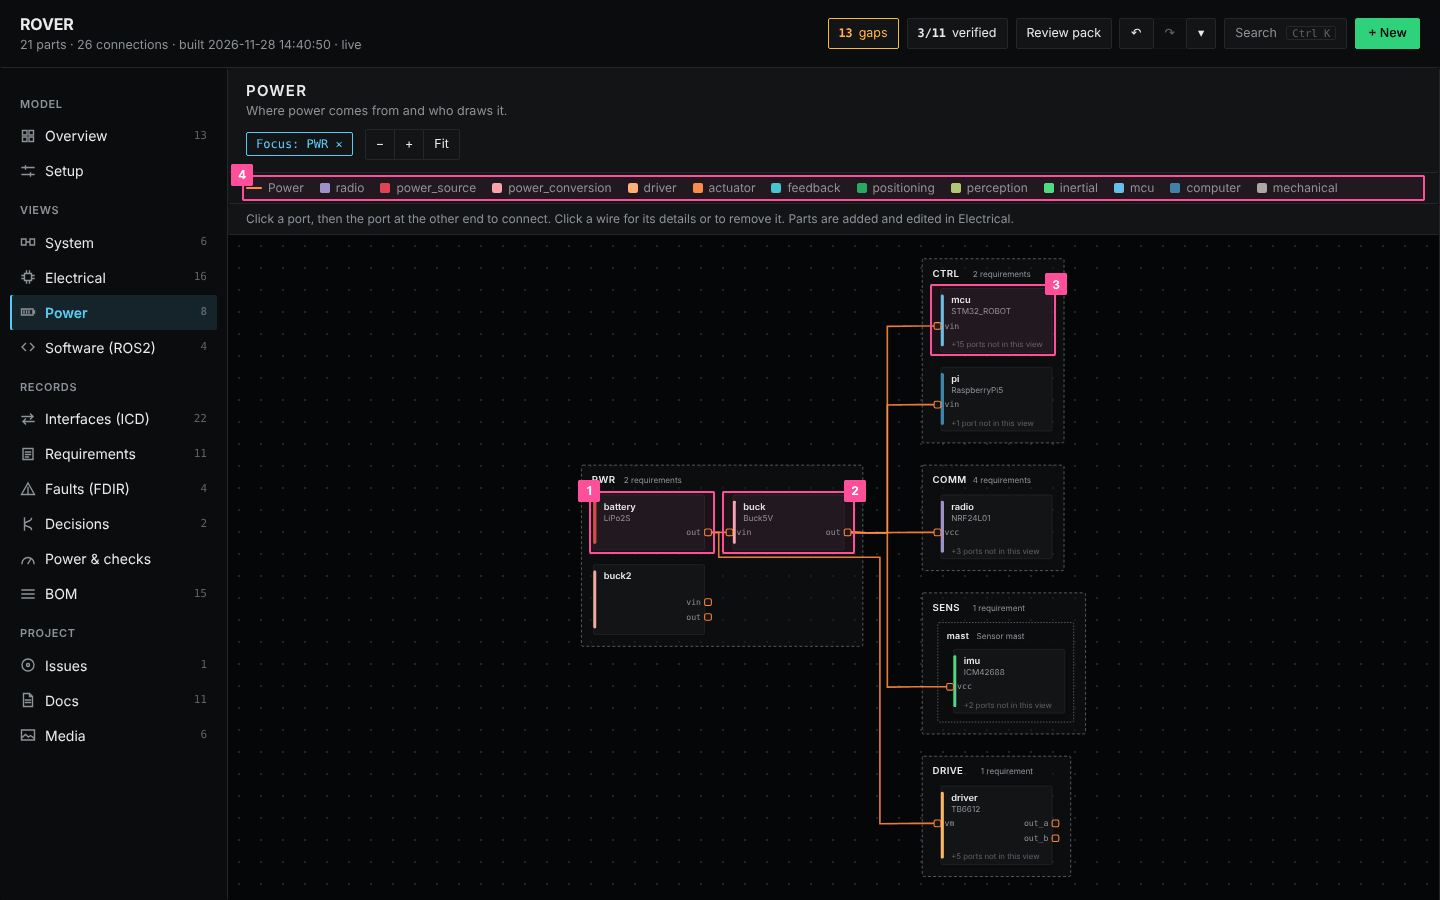
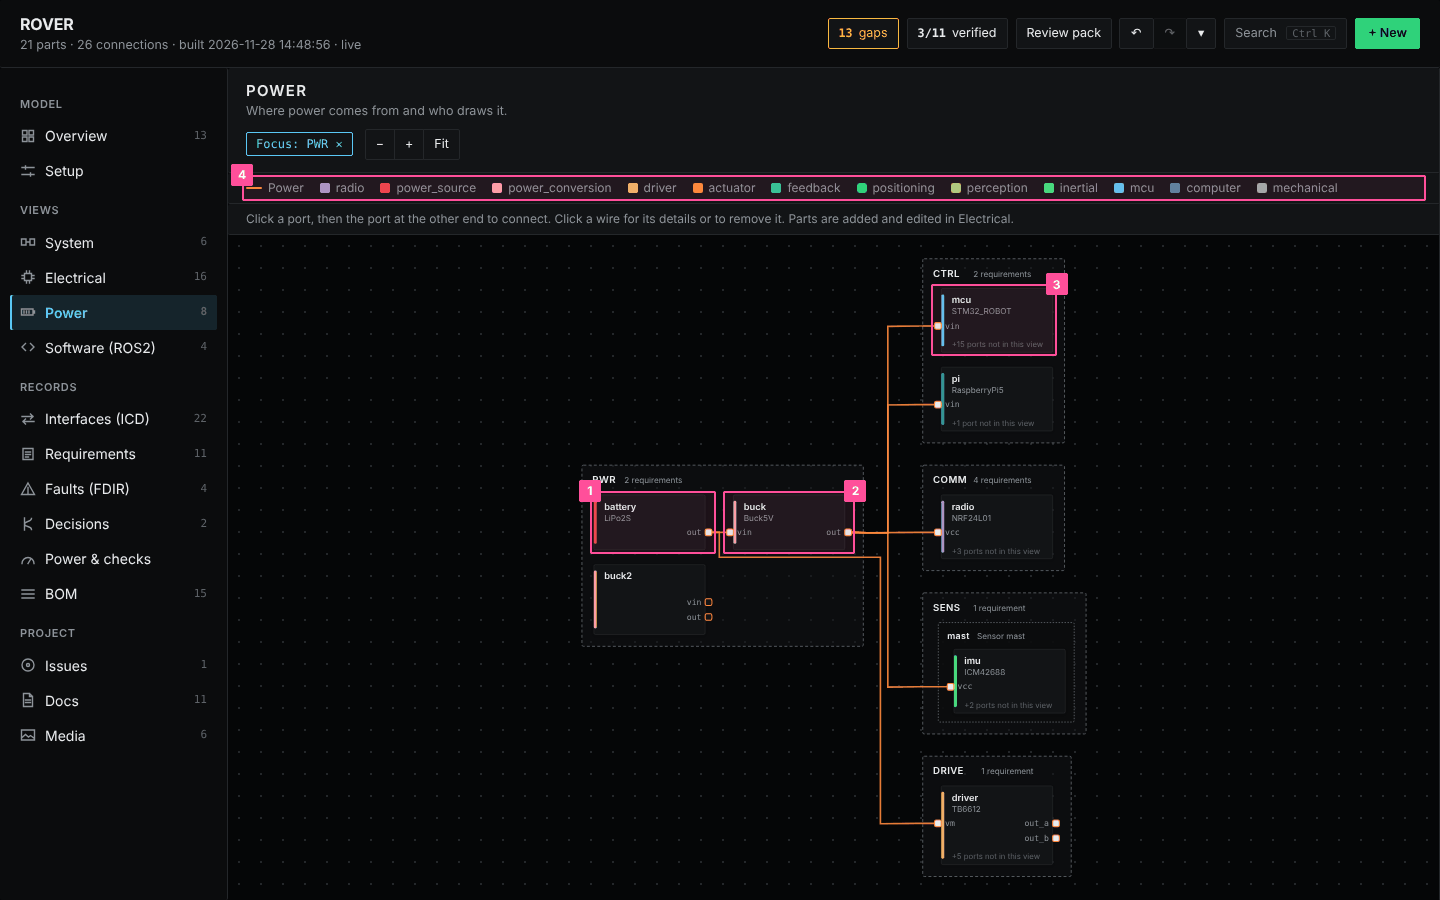
Diagram views: side panel floats over the canvas (no resize in any browser); wired pins filled; verification method next to the status

diff --git a/docmodel_page.html b/docmodel_page.html
@@ -40,7 +40,7 @@ header h1{font-size:16px;margin:0;font-weight:650;letter-spacing:-.01em}header .
 .counters{margin-left:auto;display:flex;gap:8px}
 .counter{display:inline-flex;align-items:center;gap:6px;padding:4px 10px;border-radius:999px;border:1px solid var(--hair);font-size:12.5px;cursor:pointer;background:var(--surface);color:var(--ink)}
 .counter b{font-variant-numeric:tabular-nums}.counter.bad{border-color:var(--crit);color:var(--crit-ink)}.counter.gap{border-color:var(--warn);color:var(--warn-ink)}
-.shell{flex:1;display:grid;grid-template-columns:228px 1fr auto;min-height:0}
+.shell{flex:1;display:grid;grid-template-columns:228px 1fr auto;min-height:0;position:relative}body[data-diagram="1"] aside{position:absolute;top:0;right:0;bottom:0;z-index:20;box-shadow:-12px 0 24px rgba(0,0,0,.35)}
 nav{border-right:1px solid var(--hair);padding:14px 10px;overflow:auto;background:var(--surface)}
 nav .grp{font-size:11px;text-transform:uppercase;letter-spacing:.06em;color:var(--faint);margin:14px 10px 6px}
 nav button{display:flex;width:100%;align-items:center;gap:9px;padding:7px 10px;border:0;background:none;color:var(--ink);font:inherit;border-radius:7px;cursor:pointer;text-align:left}
@@ -65,7 +65,7 @@ svg text{fill:var(--ink);font-family:-apple-system,BlinkMacSystemFont,"Segoe UI"
 .leaf>rect.band{rx:2}.leaf.facts>rect.band{fill:var(--facts)}.leaf.arch>rect.band{fill:var(--arch)}
 .leaf text.t{font-size:12.5px;font-weight:650}.leaf text.ty{font-size:11px;fill:var(--muted)}.leaf text.more{font-size:10.5px;fill:var(--faint)}
 .leaf:hover>rect.b{stroke:var(--faint)}.sel>rect.b{stroke:var(--accent)!important;stroke-width:2.2!important}
-.port{fill:var(--surface);stroke-width:1.4}.plab{font-size:11px;fill:var(--muted)}
+.port{fill:var(--surface);stroke-width:1.4}.port.wired{fill:var(--ink)}.plab{font-size:11px;fill:var(--muted)}
 .edge{fill:none;stroke-width:1.6;opacity:.9}.edge.Signal{stroke:var(--sig)}.edge.Power{stroke:var(--pwr);stroke-width:2.2}.edge.Mechanical{stroke:var(--mech);stroke-dasharray:6 3}
 .edge.bad{stroke:var(--crit)!important;stroke-dasharray:5 4}.edge.dim{opacity:.12}.edge.hot{stroke-width:3.2;opacity:1}
 .elab rect{fill:var(--surface);stroke:var(--hair)}.elab text{font-size:10.5px;fill:var(--muted)}
@@ -109,7 +109,7 @@ aside h4{font-size:11.5px;text-transform:uppercase;letter-spacing:.06em;color:va
 .rgrid{display:grid;grid-template-columns:1fr;gap:12px}
 .rcard{background:var(--surface);border:1px solid var(--ring);border-radius:12px;padding:14px 16px;box-shadow:var(--shadow);display:flex;flex-direction:column;gap:8px}
 .rcard .top{display:flex;align-items:center;gap:10px}.rcard .id{font-family:ui-monospace,Menlo,monospace;font-size:12.5px;font-weight:600}
-.rcard .meth{margin-left:auto;font-size:11.5px;color:var(--muted);border:1px solid var(--hair);border-radius:6px;padding:1px 7px}
+.rcard .meth{font-size:11.5px;color:var(--muted);border:1px solid var(--hair);border-radius:6px;padding:1px 7px}
 .rcard .txt{font-size:14px;line-height:1.45}.rcard .why{color:var(--muted);font-size:12.5px}
 .rcard .ev{font-size:12px;color:var(--muted);border-left:2px solid var(--hair);padding-left:8px}
 .links{display:flex;gap:6px;flex-wrap:wrap}.links .chip{font-size:11.5px}
@@ -353,6 +353,7 @@ const VIEWS = [
 ];
 let view = "overview", focus = null, selected = null, editing = SERVED, pend = null;
 function chrome() {
+  document.body.dataset.diagram = ["system", "electrical", "power", "software"].includes(view) ? "1" : "";  // diagram views: the panel floats over the canvas
   $("#title").textContent = M.name;
   $("#subtitle").textContent = `${Object.keys(M.parts).length - 1} parts · ${conns.length} connections · built ${(M.built || "").replace("T", " ")}${SERVED ? " · live" : ""}`;
   const verified = M.requirements.filter(r => r.status === "Verified").length;
@@ -801,6 +802,7 @@ async function drawParts(kinds, title, lead) {
     g.style.cursor = "pointer"; g.addEventListener("click", ev => { if (ev.target.closest(".leaf")) return; showPart(c.id); });
   });
   const missing = new Set(M.connections.filter(c => !c.ok).flatMap(c => [c.a_txt, c.b_txt]));
+  const wired = new Set(M.connections.filter(c => c.ok).flatMap(c => [`${M.top}.${c.a_txt}`, `${M.top}.${c.b_txt}`]));  // connected pins are drawn filled
   Object.values(abs).forEach(({x, y, n}) => { if (!n.children || !n.children.length || !M.parts[n.id] || M.parts[n.id].depth < 2) return;
     const g = el("g", {class: "cont asm", transform: `translate(${x},${y})`}, root); tagMv(g, n.id, abs, false); el("rect", {width: n.width, height: n.height, rx: 10}, g);
     el("text", {x: 12, y: 22, class: "t", style: "font-size:12px"}, g).textContent = M.parts[n.id].name;
@@ -820,7 +822,7 @@ async function drawParts(kinds, title, lead) {
     el("text", {x: 14, y: 35, class: "ty"}, g).textContent = p.type || "";
     const hidden = p.ports.filter(q => !q.missing).length - n.ports.filter(pt => !p.ports.find(x => `${n.id}.${x.name}` === pt.id)?.missing).length; if (hidden > 0) el("text", {x: 14, y: n.height - 7, class: "more"}, g).textContent = `+${hidden} port${hidden > 1 ? "s" : ""} not in this view`;
     n.ports.forEach(pt => { const q = p.ports.find(x => `${n.id}.${x.name}` === pt.id); const east = pt.x > n.width / 2;
-      const pr = el("rect", {class: "port", x: pt.x, y: pt.y, width: pt.width, height: pt.height, rx: 2, stroke: q.missing ? "var(--crit)" : KCOL[q.kind], "stroke-dasharray": q.missing ? "2 2" : ""}, g); pr.dataset.full = `${n.id}.${q.name}`;
+      const pr = el("rect", {class: wired.has(pt.id) ? "port wired" : "port", x: pt.x, y: pt.y, width: pt.width, height: pt.height, rx: 2, stroke: q.missing ? "var(--crit)" : KCOL[q.kind], "stroke-dasharray": q.missing ? "2 2" : ""}, g); pr.dataset.full = `${n.id}.${q.name}`;
       if (pend && pend.full === pr.dataset.full) pr.classList.add("pend");
       const t = el("text", {class: "plab", x: east ? pt.x - 5 : pt.x + pt.width + 5, y: pt.y + 8, "text-anchor": east ? "end" : "start", style: q.missing ? "fill:var(--crit-ink)" : ""}, g); t.textContent = q.missing ? `${q.name} (gone)` : q.name;
       if (editing && !q.missing) { const w = q.name.length * 6.4 + 8; const hit = el("rect", {class: "phit", x: east ? pt.x - w : pt.x, y: pt.y - 4, width: w + pt.width, height: pt.height + 8}, g);

diff --git a/docs/PAGE.md b/docs/PAGE.md
@@ -459,8 +459,9 @@ anywhere else shows it, without the editing buttons. The one shortcut kept:
 **+ Part here** in a subsystem's panel.
 
 **Zoom.** − / + / Fit in the toolbar. On a laptop, scroll to zoom and drag
-empty space to pan. The diagram keeps its size when the side panel opens or
-closes: the panel covers its right edge (pan to see it) instead of shrinking it. Clicking empty space closes the panel and drops the
+empty space to pan. In the diagram views the side panel slides in over the
+right edge of the diagram (pan to see what it covers); the diagram itself never
+changes size. Clicking empty space closes the panel and drops the
 selection.
 
 ### System
@@ -502,7 +503,8 @@ Here the view is focused on `COMM` (from its panel).
 3. **Legend**: part kinds and their colours.
 4. **The hint**: what clicks do.
 5. **A board**, from its `.ioc` (cyan band: an MCU), inside its subsystem's dashed box.
-6. **A port**: a pin or bus as CubeMX names it. Hover it for its pins.
+6. **A port**: a pin or bus as CubeMX names it. Filled when something is wired
+   to it, hollow when it is free. Hover it for its pins.
 7. **A part** you added; its band is the colour of its kind.
 8. **Ports not in this view**, e.g. its power input, drawn in Power.
 
